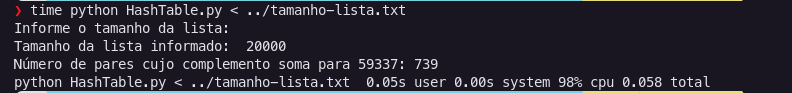
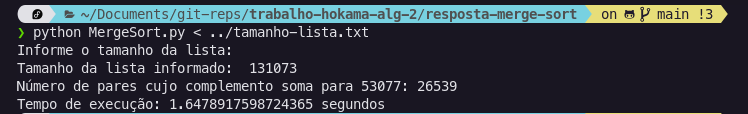
docs: readme atualizado.

diff --git a/resposta-merge-sort/MergeSort.py b/resposta-merge-sort/MergeSort.py
@@ -1,4 +1,5 @@
 import random
+import time
 
 def merge(ord_l1, ord_l2):
     i = 0
@@ -37,44 +38,47 @@ def merge_sort(l):
     l2 = merge_sort(l2)
     return merge(l1, l2)
 
+if __name__ == '__main__':
+    starttime = time.time()
+    # Gera a lista
+    size = int(input("Informe o tamanho da lista: "))
+    print("\nTamanho da lista informado: ", size)
+    random.seed(size)
+    l = set()  # Usando set para garantir elementos únicos
+    while len(l) < size:
+        num = random.randint(0, 2**17)
+        l.add(num)
 
-# Gera a lista
-size = int(input("Informe o tamanho da lista: "))
-random.seed(size)
-l = set()  # Usando set para garantir elementos únicos
-while len(l) < size:
-    num = random.randint(0, 2**17)
-    l.add(num)
+    l = list(l)  # Convertendo de volta para lista para ordenação e manipulação
 
-l = list(l)  # Convertendo de volta para lista para ordenação e manipulação
-
-# Gera o alvo
-target = random.randint(0, 2**17)
-while target % 2 == 0:
+    # Gera o alvo
     target = random.randint(0, 2**17)
+    while target % 2 == 0:
+        target = random.randint(0, 2**17)
 
-# Ordena a lista
-l = merge_sort(l)
+    # Ordena a lista
+    l = merge_sort(l)
 
-# Conta pares cujo complemento soma para o alvo
-pair_counter = 0
-left = 0    # Ponteiro que aponta para o início da lista
-right = len(l) - 1  # Ponteiro que aponta para o final da lista
+    # Conta pares cujo complemento soma para o alvo
+    pair_counter = 0
+    left = 0    # Ponteiro que aponta para o início da lista
+    right = len(l) - 1  # Ponteiro que aponta para o final da lista
 
-# Loop que ocorre enquanto os ponteiros não se cruzarem
-while left < right:
-    sum_elements = l[left] + l[right]
-    
-    if sum_elements == target:
-        pair_counter += 1
-        # print(f"Par encontrado: ({l[esquerda]}, {l[direita]})")
-        left += 1
-        right -= 1
+    # Loop que ocorre enquanto os ponteiros não se cruzarem
+    while left < right:
+        sum_elements = l[left] + l[right]
         
-    elif sum_elements < target:
-        left += 1
-        
-    else:
-        right -= 1
+        if sum_elements == target:
+            pair_counter += 1
+            # print(f"Par encontrado: ({l[esquerda]}, {l[direita]})")
+            left += 1
+            right -= 1
+            
+        elif sum_elements < target:
+            left += 1
+            
+        else:
+            right -= 1
 
-print(f"Número de pares cujo complemento soma para {target}: {pair_counter}")
+    print(f"Número de pares cujo complemento soma para {target}: {pair_counter}")
+    print(f"Tempo de execução: {time.time() - starttime} segundos")

diff --git a/resposta-hash-table/HashTable.py b/resposta-hash-table/HashTable.py
@@ -1,4 +1,5 @@
 import random
+import time
 
 class HashTable:
     def __init__(self, size):
@@ -30,7 +31,7 @@ class HashTable:
 
 
 if __name__ == '__main__':
-
+    starttime = time.time()
     size = int(input("Informe o tamanho da lista: "))
     print("\nTamanho da lista informado: ", size)
     random.seed(size)
@@ -59,3 +60,4 @@ if __name__ == '__main__':
 
     print(f"Número de pares cujo complemento soma para {
           target}: {int(count/2)}")
+    print(f"Tempo de execução: {time.time() - starttime} segundos")

diff --git a/resposta-arvore-binaria/main.py b/resposta-arvore-binaria/main.py
@@ -1,7 +1,9 @@
 import random
 import BinaryTree as bt
+import time
 
 if __name__ == '__main__':
+    starttime = time.time()
     size = int(input("Informe o tamanho da lista: "))
     print("\nTamanho da lista informado: ", size)
     random.seed(size)
@@ -25,3 +27,4 @@ if __name__ == '__main__':
     complement_count = l.find_complement(target)
     print(f"Número de pares cujo complemento soma para {
           target}: {int(complement_count/2)}")
+    print(f"Tempo de execução: {time.time() - starttime} segundos")

diff --git a/README.md b/README.md
@@ -138,7 +138,7 @@ python HashTable.py
 Para rodar o script com um número do tamanho da lista pré-setado digite (lembre-se de alterar o arquivo `tamanho-lista.txt` com o tamanho desejado):
 
 ```bash
-time python HashTable.py < ../tamanho-lista.txt
+python HashTable.py < ../tamanho-lista.txt
 ```
 
 
